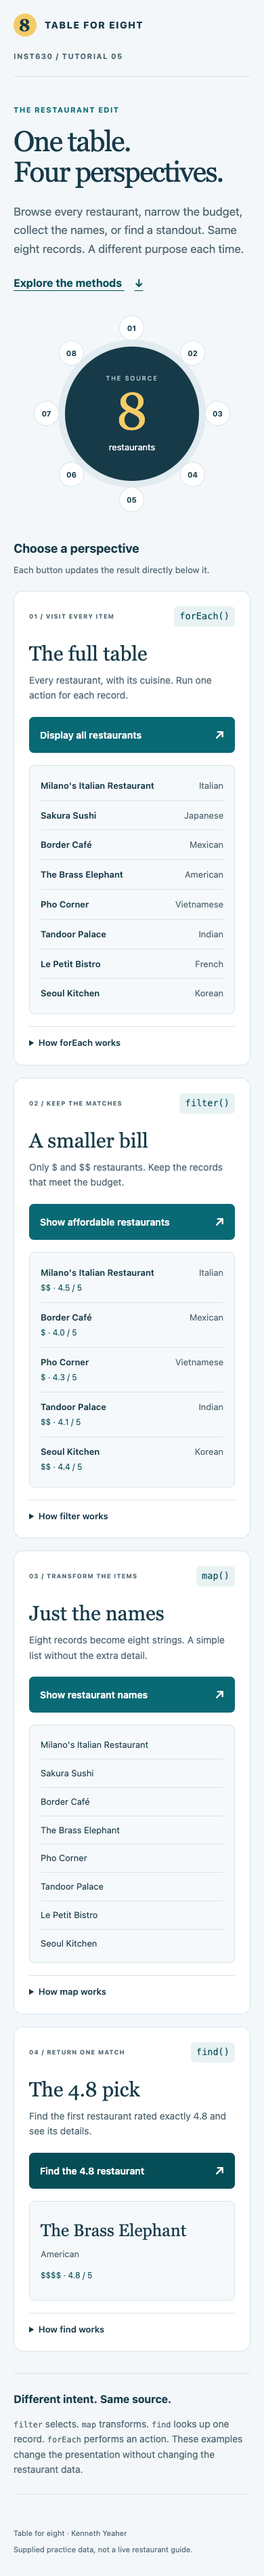
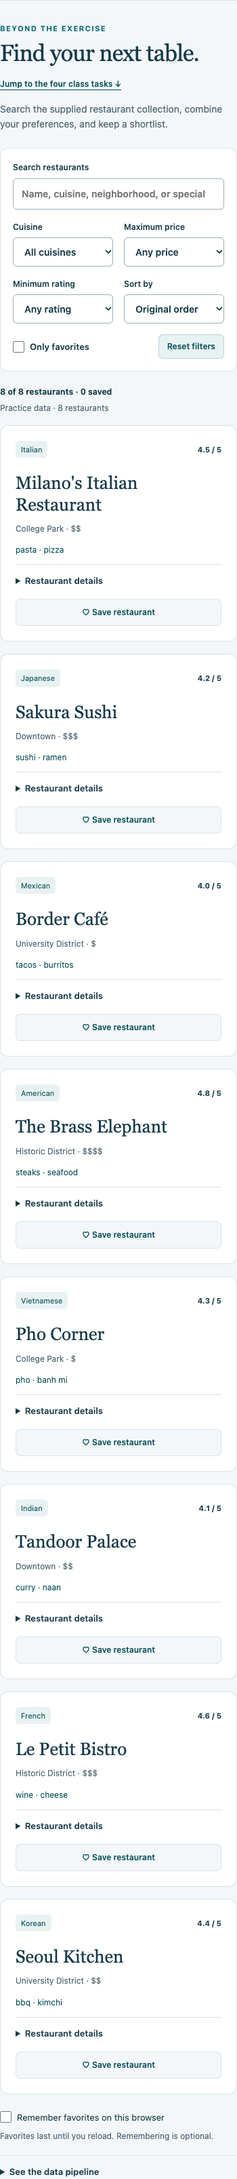
Document explorer features and class coverage

diff --git a/README.md b/README.md
@@ -3,8 +3,8 @@
 </p>
 
 <p align="center">
-  <strong>A restaurant directory, viewed through four JavaScript array methods.</strong><br>
-  Visit every record, narrow the budget, collect the names, and find the 4.8 pick.
+  <strong>A restaurant explorer built around JavaScript array methods.</strong><br>
+  Search the collection, combine preferences, and keep a shortlist.
 </p>
 
 <p align="center">
@@ -25,14 +25,37 @@
 
 ## The interaction
 
-An INST630 Tutorial 5 exercise built from the supplied restaurant starter files. The original eight records and all four button/result IDs are preserved. Each button processes the same collection and updates its own result area. Repeating an action replaces that view instead of duplicating the output.
+An INST630 Tutorial 5 exercise built from the supplied restaurant starter files. The original eight records and all four button/result IDs are preserved. The explorer turns that collection into a searchable directory with combined filters, ordering, restaurant details, and a shortlist. The four class demonstrations stay independent below it. Each class button processes the complete source collection and updates its own result area, even when the explorer has no matches. Repeating an action replaces that view instead of duplicating the output.
 
-<img src="docs/assets/preview-1440.png" alt="Desktop restaurant exercise with all four results displayed: eight restaurants and cuisines, five affordable choices, eight names, and The Brass Elephant rated 4.8." width="100%">
+<img src="docs/assets/preview-1440.png" alt="Restaurant explorer with search, cuisine, maximum price, minimum rating, ordering, and eight restaurant cards with favorite controls." width="100%">
 
 <details>
 <summary><strong>See the mobile layout</strong></summary>
 <br>
-<p align="center"><img src="docs/assets/preview-390.png" alt="Mobile restaurant exercise with four method sections stacked in one column." width="320"></p>
+<p align="center"><img src="docs/assets/preview-390.png" alt="Mobile restaurant explorer with labeled filters and restaurant cards stacked in one column." width="320"></p>
+</details>
+
+## Beyond the brief
+
+| Extension                    | What it does                                                                                 | What it demonstrates                                                        |
+| ---------------------------- | -------------------------------------------------------------------------------------------- | --------------------------------------------------------------------------- |
+| **Live search**              | Matches names, cuisines, neighborhoods, and specialties; ignores case and surrounding spaces | Search across multiple record fields                                        |
+| **Combined preferences**     | Intersects cuisine, maximum price, minimum rating, and favorite selections                   | Composable predicates with `filter`                                         |
+| **Four ordering choices**    | Original order, highest rating, lowest price, or name A to Z                                 | Immutable sorting with `toSorted` and explicit tie breakers                 |
+| **Favorites**                | Adds or removes restaurants from a shortlist, with a saved count                             | Separate state in a `Set`, event delegation, and keyboard focus restoration |
+| **Optional remembering**     | Stores IDs locally only after opt in and restores validated favorites                        | Versioned storage, schema checks, and handling blocked storage              |
+| **Recovery from no matches** | Shows guidance and a reset action; resetting keeps favorites                                 | An empty state with a clear next action                                     |
+| **Restaurant details**       | Reveals supplied hours and practice phone numbers on request                                 | Progressive disclosure with native `details` controls                       |
+| **Independent class tasks**  | Always uses the full original collection for all four demonstrations                         | Separation between explorer preferences and assignment behavior             |
+
+Search and sorting are handled by `selectRestaurants(records, preferences, favorites)` in [`explorer.js`](tutorial_5_arrays/explorer.js). It returns a new array of record references. `renderExplorer()` maps those records to new DOM cards. The source records are never edited to mark a favorite or change their order.
+
+Favorites are temporary by default. **Remember favorites on this browser** stores only a version number and restaurant IDs in local storage. Turning it off removes the saved copy while keeping the current shortlist. A blocked browser storage operation produces specific guidance and leaves the in-memory shortlist usable. Filters and search terms are not persisted, and nothing is sent to a server.
+
+<details>
+<summary><strong>See all four class results</strong></summary>
+<br>
+<img src="docs/assets/class-methods-1440.png" alt="Independent class demonstrations showing eight names and cuisines, five affordable restaurants, eight names, and the first exact 4.8 match." width="100%">
 </details>
 
 ## Class requirements
@@ -117,9 +140,13 @@ To use an existing Google Chrome installation instead of downloading Chromium:
 BROWSER_CHANNEL=chrome npm test
 ```
 
-The **10 local browser checks passed in headless Google Chrome**. They cover:
+The **16 local browser checks passed in headless Google Chrome**. They cover:
 
 - Exact names, cuisines, affordable results, and the 4.8 match.
+- Combined explorer filters, specialty search, ordering, and resetting.
+- Favorites with keyboard activation and focus recovery.
+- Storage opt in, reload restoration, disabling, malformed data, and blocked writes or removal.
+- Independent class results while explorer filters produce no matches.
 - Repeat clicks without duplicates and a deeply frozen source dataset.
 - A missing 4.8 match, multiple matches, and empty data.
 - Literal rendering of text that looks like HTML.
@@ -142,7 +169,8 @@ arrayMethods/
 ├── index.html                  # Entry point to the exercise
 ├── tutorial_5_arrays/
 │   ├── index.html              # Four method sections and result areas
-│   ├── script.js               # Supplied data and array method functions
+│   ├── script.js               # Supplied data and four class demonstrations
+│   ├── explorer.js             # Combined queries, card rendering, favorites
 │   ├── style.css               # Responsive layout and focus styles
 │   └── favicon.svg             # Table mark
 ├── tests/arrays.test.cjs        # Browser behavior checks
@@ -153,12 +181,13 @@ arrayMethods/
 
 ## Scope and sources
 
-The restaurant names, ratings, prices, and contact fields are supplied practice data from **Tutorial 5: Array Methods for Data**, not verified restaurant information. The exercise has no backend, analytics, persistent storage, or network requests. The README badges are external images; the exercise itself uses local assets and system fonts.
+The restaurant names, ratings, prices, and contact fields are supplied practice data from **Tutorial 5: Array Methods for Data**, not verified restaurant information. The exercise has no backend, analytics, or network requests. Optional browser storage holds favorite IDs only. It targets modern browsers that support `Array.prototype.toSorted`; older browsers need a copying sort alternative or a polyfill. The README badges are external images; the exercise itself uses local assets and system fonts.
 
 The starter is preserved in the first commit. Later commits record implementation, interface work, verification, and documentation. No license has been added to the supplied course materials because redistribution rights have not been established.
 
 - [MDN: forEach](https://developer.mozilla.org/en-US/docs/Web/JavaScript/Reference/Global_Objects/Array/forEach)
 - [MDN: filter](https://developer.mozilla.org/en-US/docs/Web/JavaScript/Reference/Global_Objects/Array/filter)
 - [MDN: map](https://developer.mozilla.org/en-US/docs/Web/JavaScript/Reference/Global_Objects/Array/map)
+- [MDN: toSorted](https://developer.mozilla.org/en-US/docs/Web/JavaScript/Reference/Global_Objects/Array/toSorted)
 - [MDN: find](https://developer.mozilla.org/en-US/docs/Web/JavaScript/Reference/Global_Objects/Array/find)
 - Jenifer Tidwell, Charles Brewer, and Aynne Valencia. _Designing Interfaces: Patterns for Effective Interaction Design_, third edition. O'Reilly Media, 2020. Chapter 4, _Titled Sections_.
